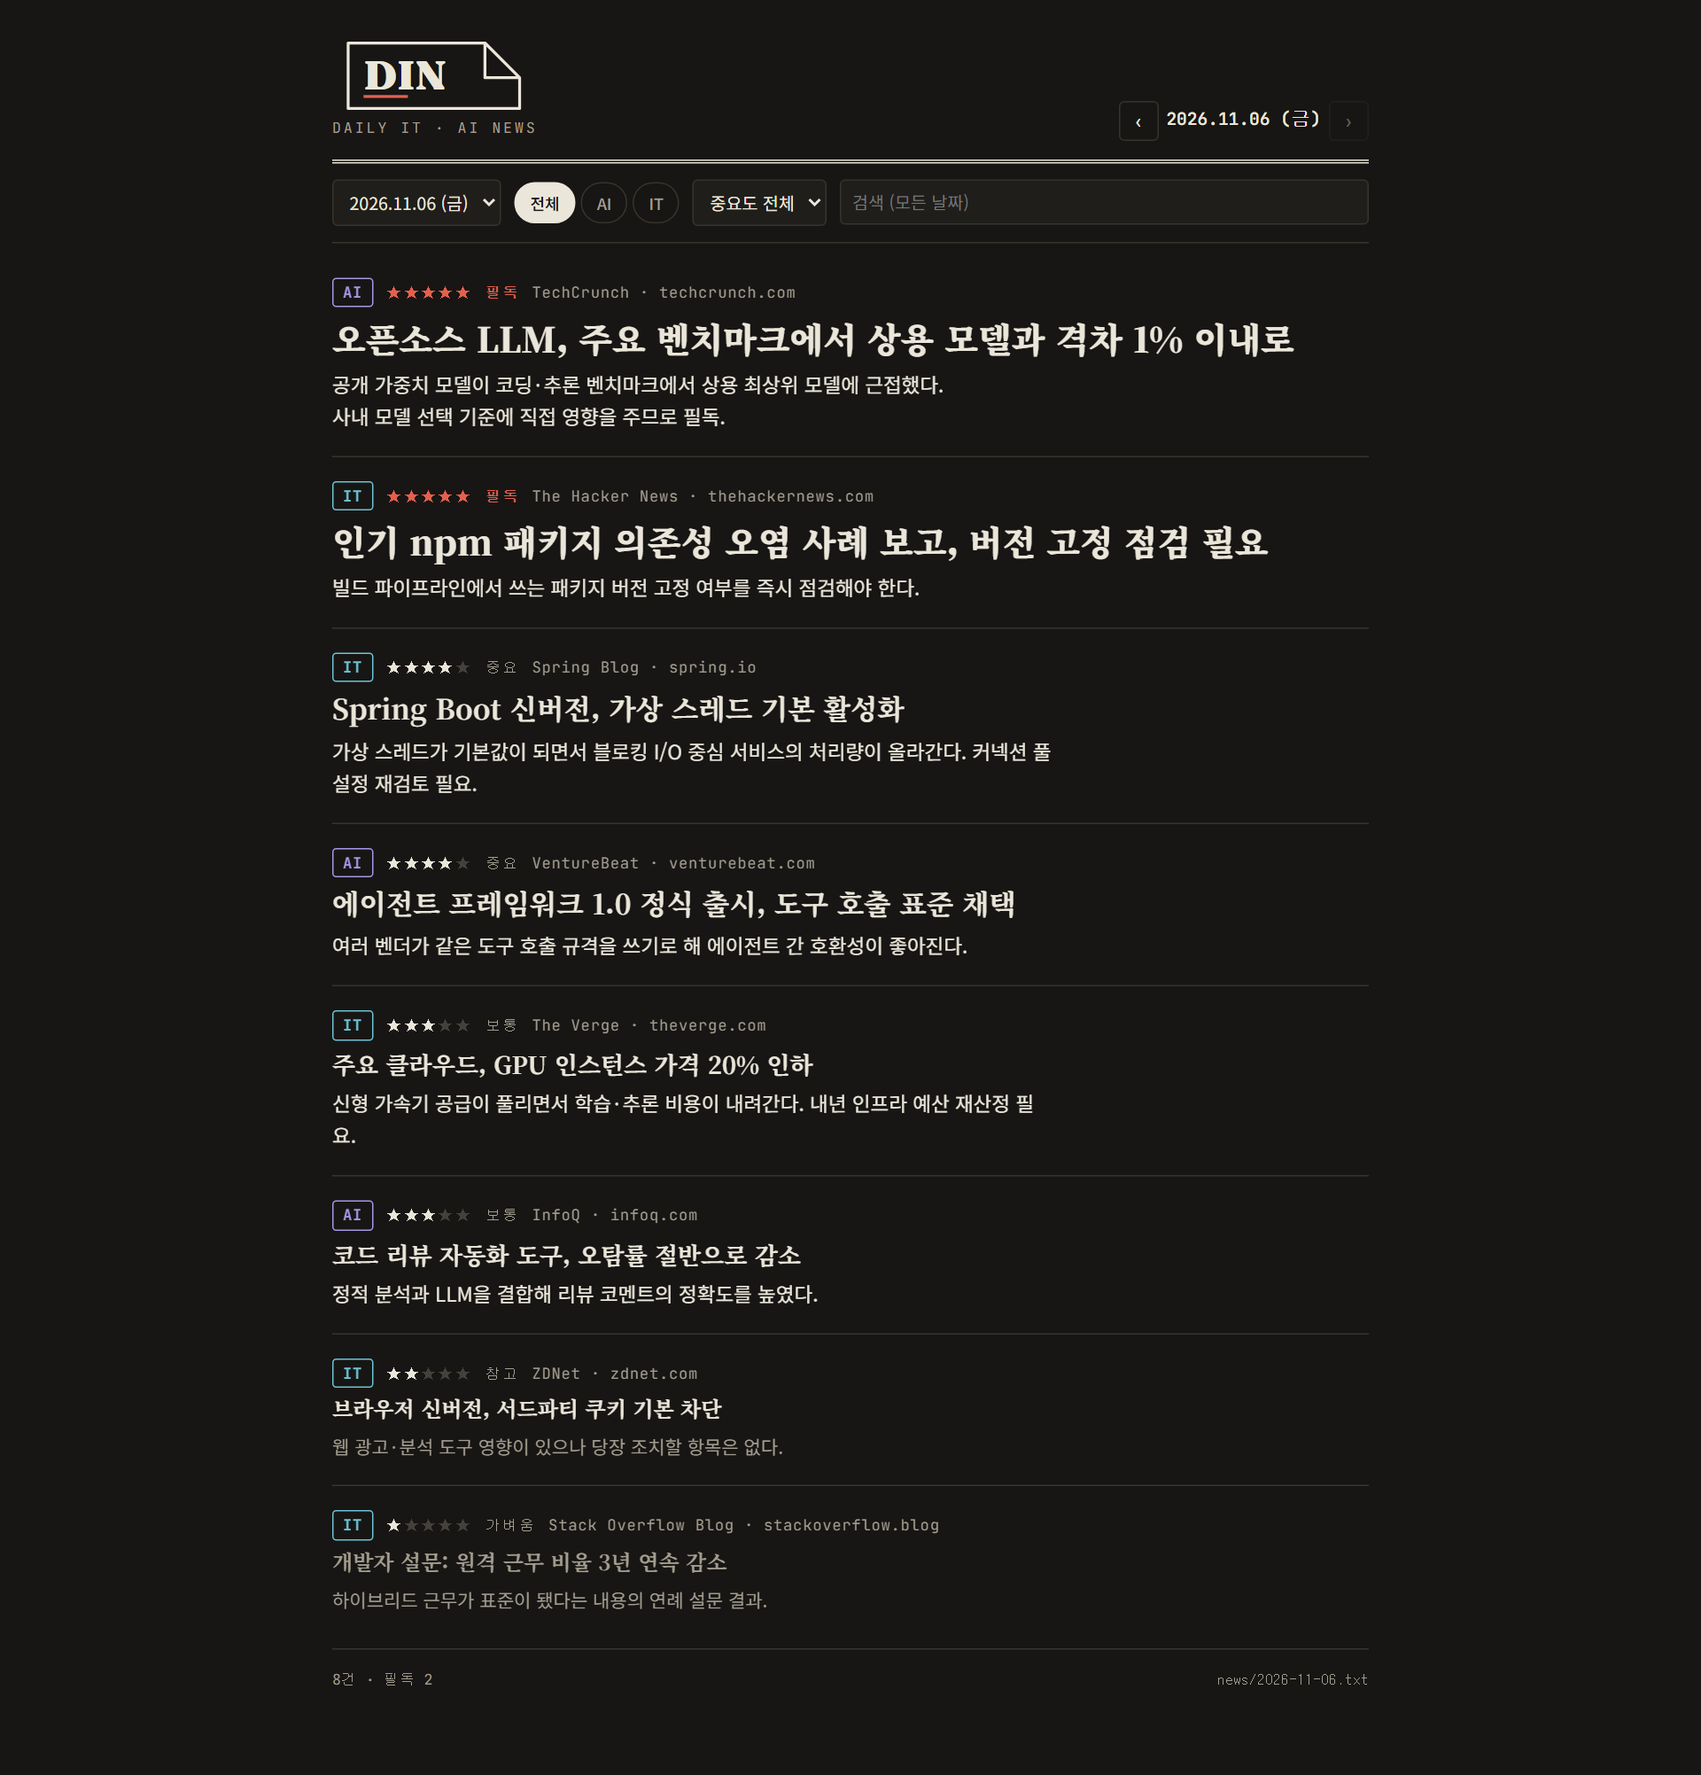
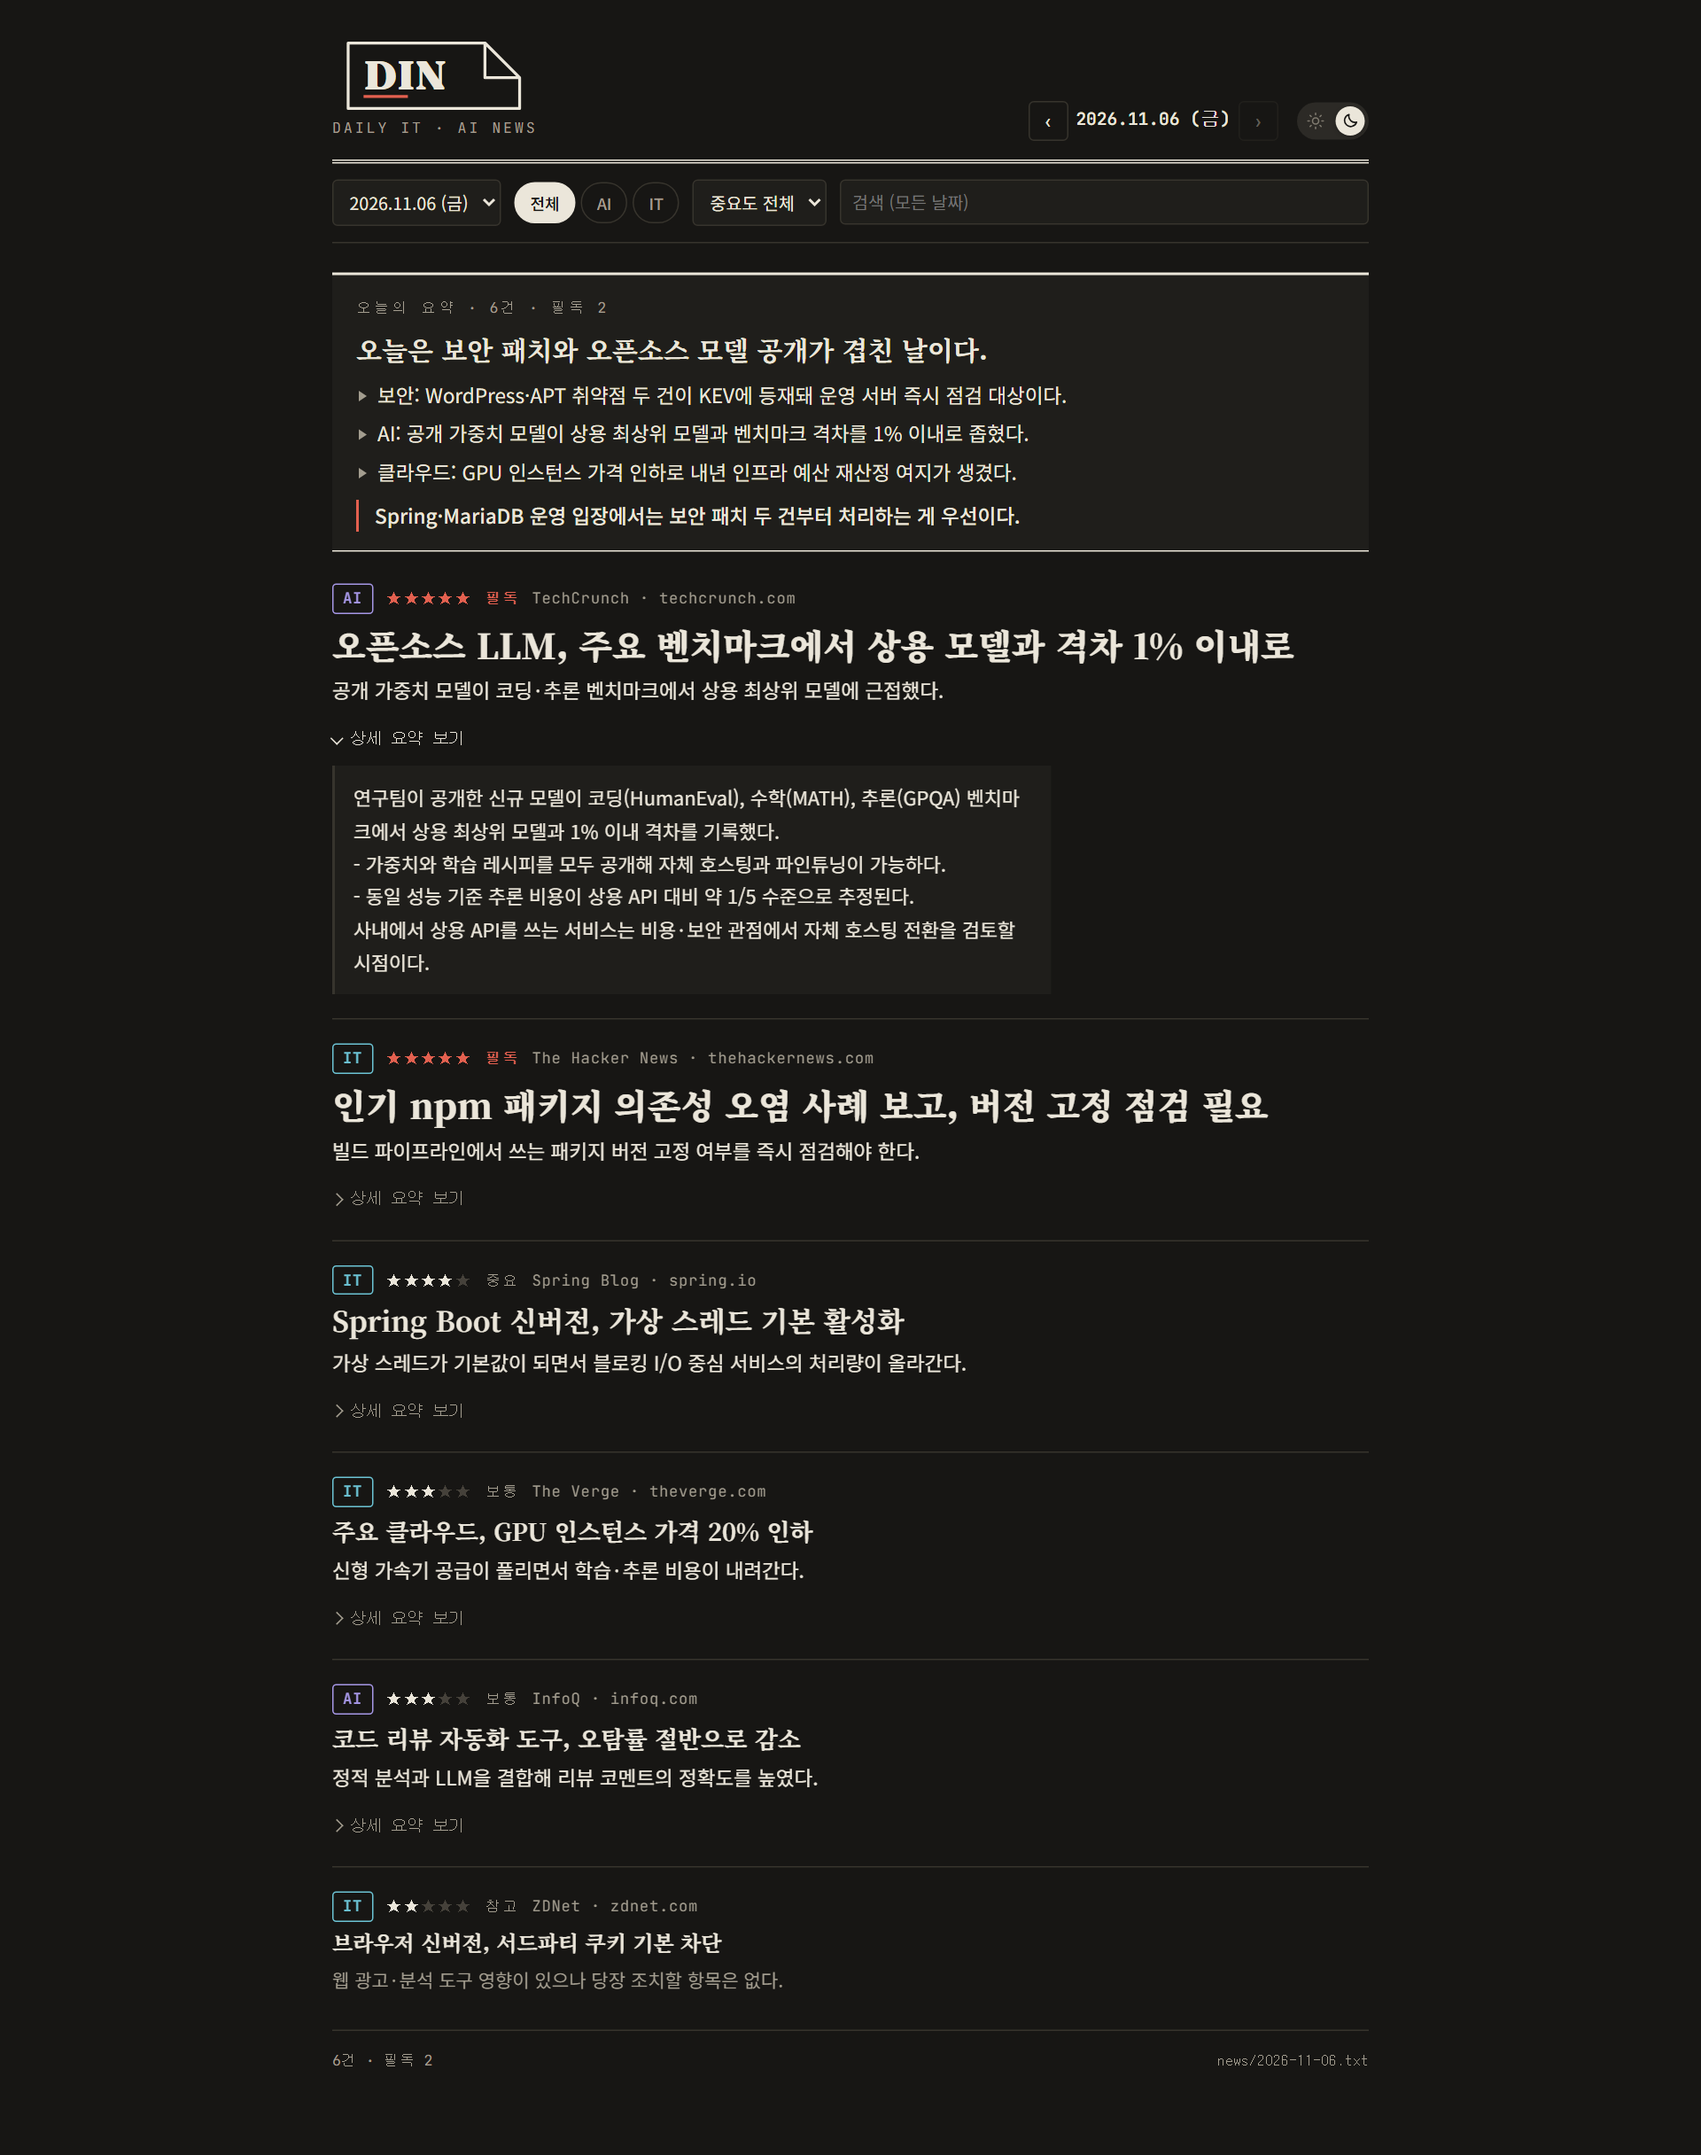
README: refresh screenshots and demo gif with overview box, detail toggle, theme switch

Changed region(s): [[0.1875, 0.0, 0.8125, 0.65], [0.1875, 0.681, 0.4688, 0.9286]]

diff --git a/README.md b/README.md
@@ -21,9 +21,9 @@
 <br>
 
 <p align="center">
-  <img src="docs/demo.gif" alt="DIN 데모: 분류 필터, 중요도 필터, 날짜 이동, 전체 검색" width="880">
+  <img src="docs/demo.gif" alt="DIN 데모: 테마 전환, 상세 요약, 분류 필터, 중요도 필터, 날짜 이동, 전체 검색" width="880">
 </p>
-<p align="center"><sub>분류(AI/IT) 필터 → 중요도 필터 → 날짜 이동 → 전체 날짜 검색. 화면의 기사는 샘플입니다.</sub></p>
+<p align="center"><sub>라이트/다크 전환 → 상세 요약 펼치기 → 분류(AI/IT) 필터 → 중요도 필터 → 날짜 이동 → 전체 날짜 검색. 화면의 기사는 샘플입니다.</sub></p>
 
 <br>
 
@@ -42,7 +42,9 @@
   </tr>
 </table>
 
-기본은 OS 설정을 따라가고, 오른쪽 위 ☀/☾ 버튼으로 라이트·다크를 직접 바꿀 수 있습니다. 선택은 브라우저에 저장됩니다.
+맨 위 "오늘의 요약" 상자에 그날의 총평·주제별 흐름·시사점이 항상 펼쳐져 보이고, 기사마다 한 줄 요약 아래 "상세 요약 보기"를 누르면 긴 요약이 펼쳐집니다.
+
+테마는 기본으로 OS 설정을 따라가고, 오른쪽 위 ☀/☾ 스위치로 라이트·다크를 직접 바꿀 수 있습니다. 선택은 브라우저에 저장됩니다.
 
 ## 중요도
 
